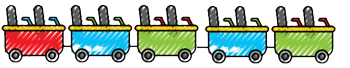
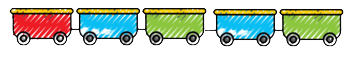
Inicialização da animação do passageiro.

diff --git a/MontanhaRussa/src/Programa/Passageiro.java b/MontanhaRussa/src/Programa/Passageiro.java
@@ -2,17 +2,37 @@ package Programa;
 
 import Janelas.Animacao;
 
+import java.awt.Graphics2D;
+import java.awt.image.BufferedImage;
+import java.io.File;
+import java.io.IOException;
+
+import javax.imageio.ImageIO;
+
 public class Passageiro extends Thread {
 
 	public int tempoEmbarque = 10;
 	public int tempoDesembarque = 10;
 	public String texto;
 	public Vagao vagao;
+	public BufferedImage personagemAndando[];
+	public BufferedImage personagemRespirando[];
+	public int indiceImagem = 0;
+	public int status = 0;
+	public int direcao = 0;
+	public int posx = 700;
+	public int posy = 540;
+	public int velocidadeEmbarque;
+	public int velocidadeDesembarque;
+	public int cadeiraPassageiroInvertido;
+	public int cadeiraPassageiro;
 	
 	
 	@Override
 	public void run() {
 		while(true) {
+			
+			entrarNaFila();
 			
 			// Colocar pr�ximas duas instru��es dentro do embarca!
 			texto = String.format("Passageiro %d est� esperando na fila.\n", (Aplicacao.identificador.indexOf(this)+1));
@@ -63,6 +83,43 @@ public class Passageiro extends Thread {
 	public void embarca() {
 		texto = String.format("Passageiro %d est� embarcando.\n", (Aplicacao.identificador.indexOf(this)+1));
 		Animacao.textArea.append(texto);
+		
+		long inicio = System.currentTimeMillis(); 
+		long fim = System.currentTimeMillis(); 
+		int tempo = (int)(fim - inicio)/1000;
+		int cont = 0;
+		
+		for (int i = 0; i < Aplicacao.identificador.size(); i++) {
+			if (Aplicacao.identificador.get(i).status == 1) {
+				cont++;
+			}
+		}
+		
+		cadeiraPassageiroInvertido = 9 - cont;
+		cadeiraPassageiro = cont;
+		
+		do {
+			tempo = (int)(fim - inicio)/1000; 
+			Animacao.cronometro.setText(String.format("%d", tempo)); 
+			
+			fim = System.currentTimeMillis();
+			
+			posy = 400;
+			direcao = 1;
+			posx = vagao.posCadeiras[cont] + vagao.posx;
+			posy = 355;
+			
+		} while (tempo < tempoEmbarque);
+		
+		Animacao.cronometro.setText(String.format("%d", tempo));
+		
+		long I = System.currentTimeMillis();
+		while (System.currentTimeMillis() - I < 500) {
+		}
+			
+		
+		status = 1;
+		indiceImagem = 0;
 	
 	}
 	
@@ -71,21 +128,115 @@ public class Passageiro extends Thread {
 		texto = String.format("Passageiro %d est� apreciando paisagem.\n", (Aplicacao.identificador.indexOf(this)+1));
 		Animacao.textArea.append(texto);
 		
+		do {
+			long I = System.currentTimeMillis();
+			while ((System.currentTimeMillis() - I) < 50) {
+			}
+			
+			if (vagao.direcao == 1) { // Enquanto n�o n�o saiu da tela anda para esquerda
+				posx = vagao.posx + vagao.posCadeiras[cadeiraPassageiroInvertido];
+				direcao = 0;
+			} else if (vagao.direcao == 0) { // Enquanto n�o saiu da tela vai para frente
+				posx  = vagao.posx + vagao.posCadeiras[cadeiraPassageiro];
+				direcao = 1;
+			}
+			
+			indiceImagem++;
+			
+			if (indiceImagem == 16) {
+				indiceImagem = 0;
+			}
+			System.out.println(""); // importante!!!! NÃO RETIRAR NUNCA!
+		} while (vagao.parou == false);
+		
+		
+		// Esperar vagão parar
 		long I = System.currentTimeMillis();
 		while ((System.currentTimeMillis() - I) / 1000 <= vagao.tempoDeViagem) {
 		}
+		
+		
 		
 	}
 	
 	// M�todo com a anima��o dos passageiros desembarcando
 	public void desambarcando() {
-		try {
-			sleep(4000);
-		} catch (InterruptedException e) {
-			// TODO Auto-generated catch block
-			e.printStackTrace();
-		}
 		texto = String.format("Passageiro %d est� desembarcando.\n", (Aplicacao.identificador.indexOf(this)+1));
 		Animacao.textArea.append(texto);
+	}
+	
+	public void entrarNaFila() {
+		int cont = 0;
+		
+		for (int i = 0; i < Aplicacao.identificador.size() - 1; i++) {
+			if (Aplicacao.identificador.get(i).status == 0) {
+				cont++;
+			}
+		}
+		
+		while (posx != (70 * cont + 20)) {
+			long I = System.currentTimeMillis();
+			while (System.currentTimeMillis() - I < 50) {
+			}
+			
+			posx -= 10; // tem que ser 5
+			indiceImagem++;
+			
+			if (indiceImagem == 20) {
+				indiceImagem = 0;
+			}
+		}
+	}
+
+	public void pinta(Graphics2D g) {
+		if (status == 0) {
+			if (direcao == 0) {
+				g.drawImage(personagemAndando[indiceImagem], posx, posy, posx + 60, posy + 60, 
+						personagemAndando[indiceImagem].getWidth(), 0, 0, 
+						personagemAndando[indiceImagem].getHeight(), null);				
+			} else if (direcao == 1) {
+				g.drawImage(personagemAndando[indiceImagem], posx, posy, posx + 60, posy + 60, 
+						0, 0, personagemAndando[indiceImagem].getWidth(), 
+						personagemAndando[indiceImagem].getHeight(), null);	
+			}
+		} else if (status == 1) {
+			if (direcao == 0) {
+				g.drawImage(personagemRespirando[indiceImagem], posx, posy, posx + 60, posy + 60, 
+						personagemRespirando[indiceImagem].getWidth(), 0, 0, 
+						personagemRespirando[indiceImagem].getHeight(), null);				
+			} else if (direcao == 1) {
+				g.drawImage(personagemRespirando[indiceImagem], posx, posy, posx + 60, posy + 60, 
+						0, 0, personagemRespirando[indiceImagem].getWidth(), 
+						personagemRespirando[indiceImagem].getHeight(), null);	
+			}
+		}
+
+	}
+	
+	public Passageiro() {
+		personagemAndando = new BufferedImage[20];
+		personagemRespirando = new BufferedImage[16];
+		String imagem;
+		
+		
+		for (int i = 0; i < 20; i++) {
+			try {				
+				imagem = "imagens/passageiro/Walk ("+ (i+1)+").png";
+				personagemAndando[i] = ImageIO.read(new File(imagem));
+			} catch (IOException e) {
+				System.out.println("N�o foi poss�vel carregar passageiro andando!!");
+				e.printStackTrace();
+			}			
+		}
+		
+		for (int i = 0; i < 16; i++) {
+			try {
+				imagem = "imagens/passageiro/Idle ("+ (i+1)+").png";
+				personagemRespirando[i] = ImageIO.read(new File(imagem));
+			} catch (IOException e) {
+				System.out.println("N�o foi poss�vel carregar passageiro respirando!!");
+				e.printStackTrace();
+			}
+		}
 	}
 }

diff --git a/MontanhaRussa/src/Programa/Vagao.java b/MontanhaRussa/src/Programa/Vagao.java
@@ -4,6 +4,8 @@ import java.awt.Graphics2D;
 import java.awt.image.BufferedImage;
 import java.io.File;
 import java.io.IOException;
+import java.util.ArrayList;
+import java.util.List;
 
 import javax.imageio.ImageIO;
 
@@ -19,10 +21,12 @@ public class Vagao extends Thread {
 	BufferedImage imagem;
 	BufferedImage imagemInvertida;
 	public int posx = 0;
-	public int posy = 370;
+	public int posy = 385;
 	public boolean status = false;
 	public int direcao = 0;
 	public static String texto;
+	public static int []posCadeiras = {295, 265, 225, 195, 155, 125, 90, 60, 20, -10};
+	public boolean parou;
 
 	public static void VagaoEspera() {
 		Aplicacao.downLotado();
@@ -54,6 +58,7 @@ public class Vagao extends Thread {
 		long inicio = System.currentTimeMillis(); 
 		long fim = System.currentTimeMillis(); 
 		int tempo; 
+		v.parou = false;
 		
 		do {
 			tempo = (int)(fim - inicio)/1000; 
@@ -64,7 +69,7 @@ public class Vagao extends Thread {
 			while (System.currentTimeMillis() - I < 50) {
 			}
 
-			System.out.println(v.velocidade + " " + v.resto + " " + v.posx);
+//			System.out.println(v.velocidade + " " + v.resto + " " + v.posx);
 			
 			if (v.posx < 777 && v.direcao == 0) { // Enquanto n�o saiu da tela vai para frente
 				v.posx += v.velocidade;
@@ -87,7 +92,7 @@ public class Vagao extends Thread {
 		
 		} while (v.status == false || v.posx < 0);
 
-		// Animacao.textArea.append(String.format("%d", tempo)); 
+		v.parou = true;
 		v.status = false;
 	}
 
@@ -115,17 +120,17 @@ public class Vagao extends Thread {
 			System.out.println("N�o foi poss�vel caregar o plado de fundo!!");
 			e.printStackTrace();
 		}
-
-		// configuraJanela();
-		// new Movimento().start();
 	}
 	
-	public static void esperandoEmbarque() {
-		try {
-			sleep(4000);
-		} catch (InterruptedException e) {
-			// TODO Auto-generated catch block
-			e.printStackTrace();
+	public void esperandoEmbarque() {
+		int totalTempoEmbarque = 0;
+		
+		for (int i = 0; i < quantidadeDecadeiras; i++) {
+			totalTempoEmbarque += Aplicacao.identificador.get(i).tempoEmbarque;
+		}
+		
+		long I = System.currentTimeMillis();
+		while ((System.currentTimeMillis() - I) / 1000 <= totalTempoEmbarque) {
 		}
 		
 		texto = "Vag�o esperando embarque.\n";
@@ -133,12 +138,6 @@ public class Vagao extends Thread {
 	}
 	
 	public static void esperandoDesembarque() {
-		try {
-			sleep(4000);
-		} catch (InterruptedException e) {
-			// TODO Auto-generated catch block
-			e.printStackTrace();
-		}
 		
 		texto = "Vag�o esperando desembarque.\n";
 		Animacao.textArea.append(texto);

diff --git a/MontanhaRussa/src/Janelas/CriacaoPassageiro.java b/MontanhaRussa/src/Janelas/CriacaoPassageiro.java
@@ -104,6 +104,7 @@ public class CriacaoPassageiro {
 			public void actionPerformed(java.awt.event.ActionEvent evt) {
 				frameCriaPassageiro.setVisible(false);
 				Passageiro passageiro = new Passageiro();
+//				passageiro.entrarNaFila(passageiro);
 				passageiro.vagao = Aplicacao.v;
 				passageiro.tempoEmbarque = Integer.parseInt(tempoEmbarque.getText());
 				passageiro.tempoDesembarque = Integer.parseInt(tempoDesembarque.getText());

diff --git a/MontanhaRussa/src/Programa/Aplicacao.java b/MontanhaRussa/src/Programa/Aplicacao.java
@@ -8,7 +8,7 @@ import Janelas.CriacaoVagao;
 public class Aplicacao {
 
 	public static Semaphore preparativos = new Semaphore(0);
-	public static Semaphore mutex = new Semaphore(1);
+	public static Semaphore mutex = new Semaphore(1, true);
 	public static Semaphore vagao = new Semaphore(1, true);
 	public static Semaphore lotado = new Semaphore(0);
 	public static int cadeirasOcupadas = 0;

diff --git a/MontanhaRussa/src/Janelas/CriacaoVagao.java b/MontanhaRussa/src/Janelas/CriacaoVagao.java
@@ -113,7 +113,6 @@ public class CriacaoVagao {
 		       vagao.tempoDeViagem = Integer.parseInt(tempoDeViagem.getText());
 		       
 		       vagao.velocidade =  (int) (112/vagao.tempoDeViagem);
-//		       decimal = (vagao.tempoDeViagem % );
 		       
 		       decimal = (112 % vagao.tempoDeViagem) * vagao.tempoDeViagem;
 		       vagao.resto = decimal;
